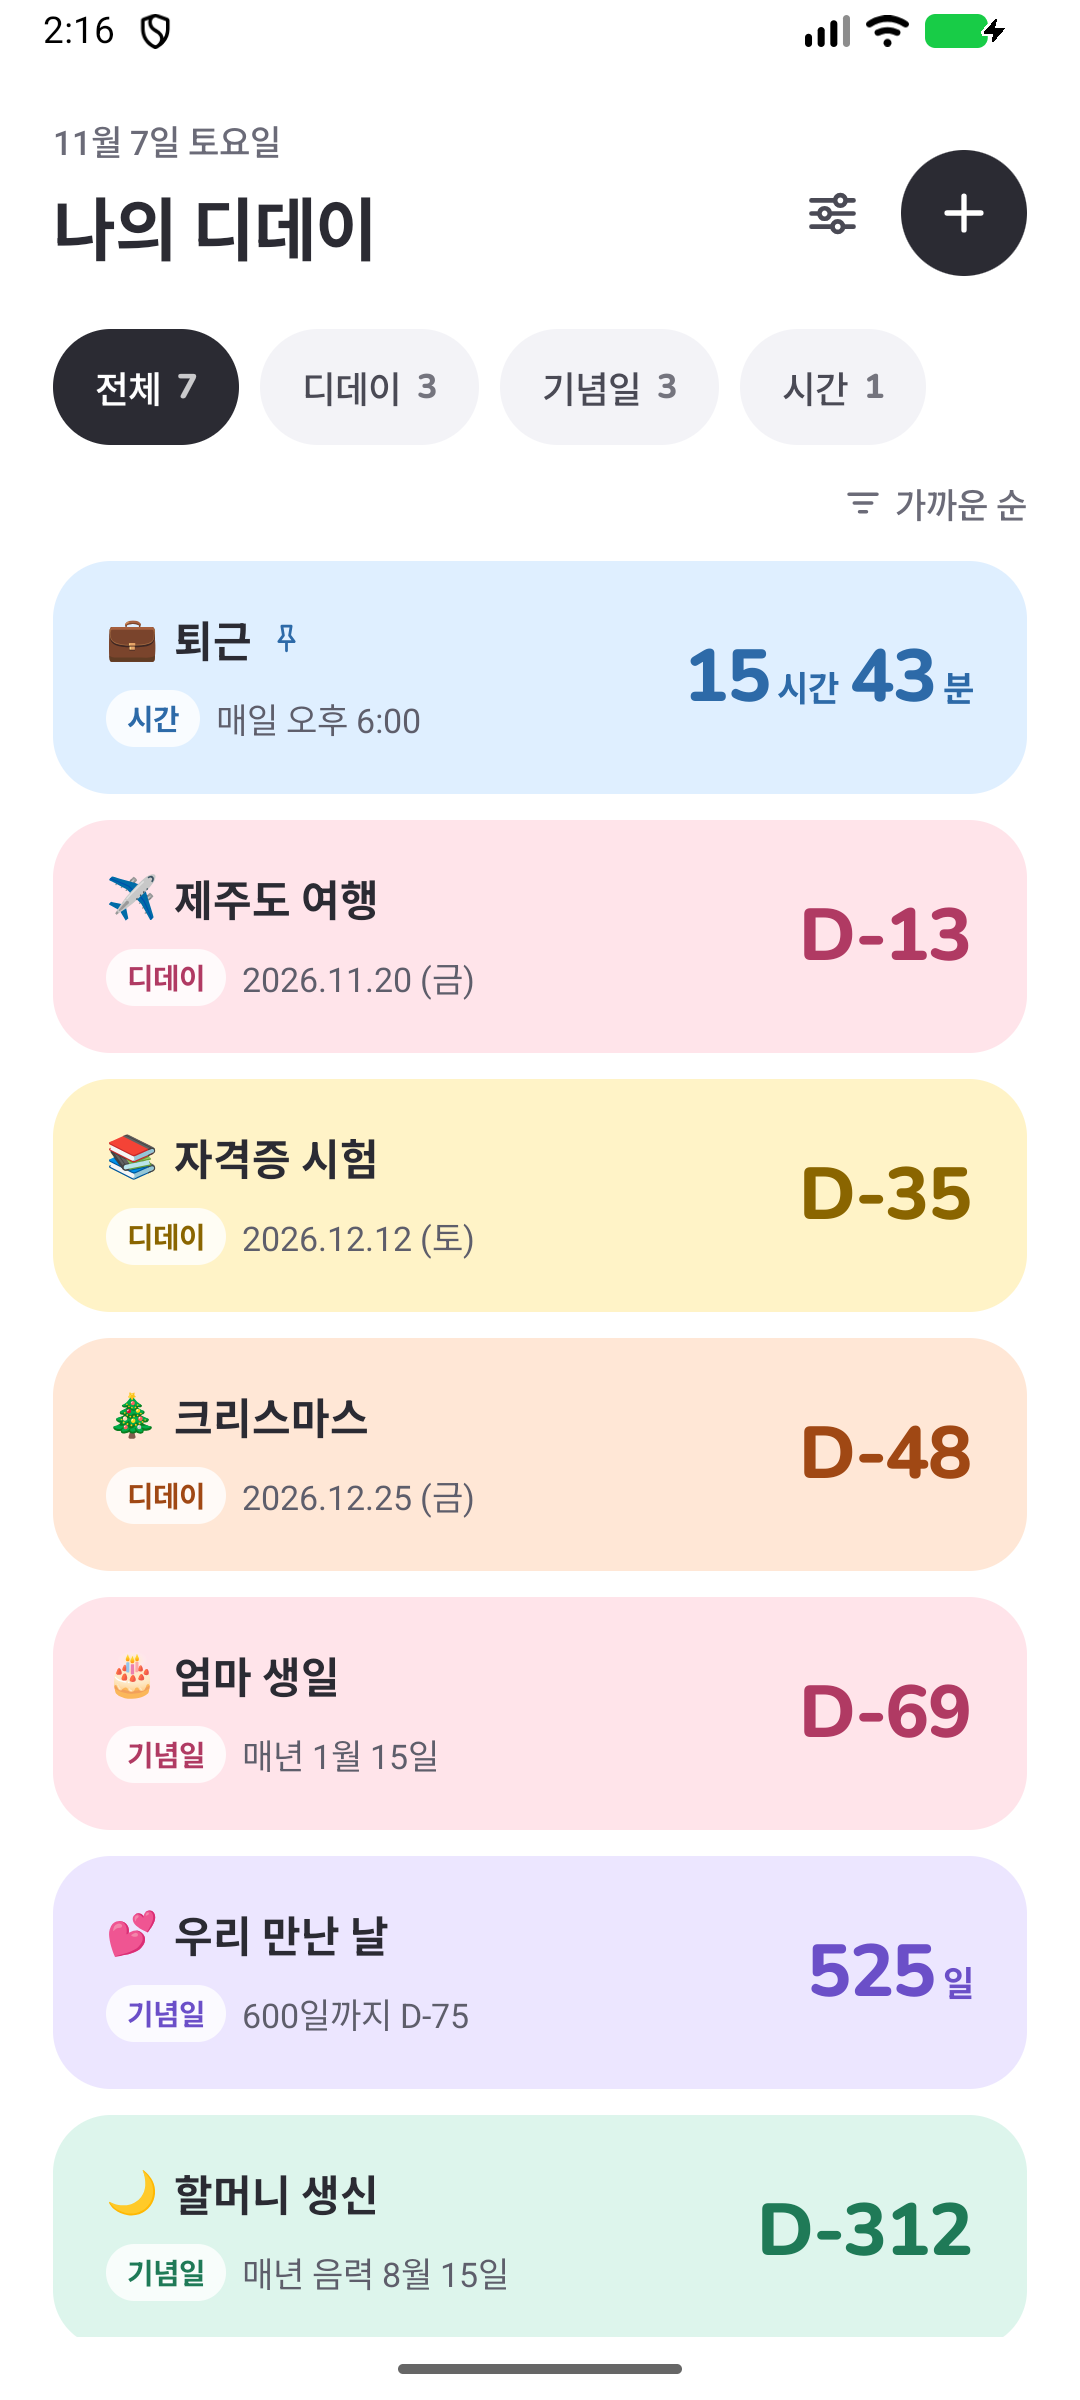
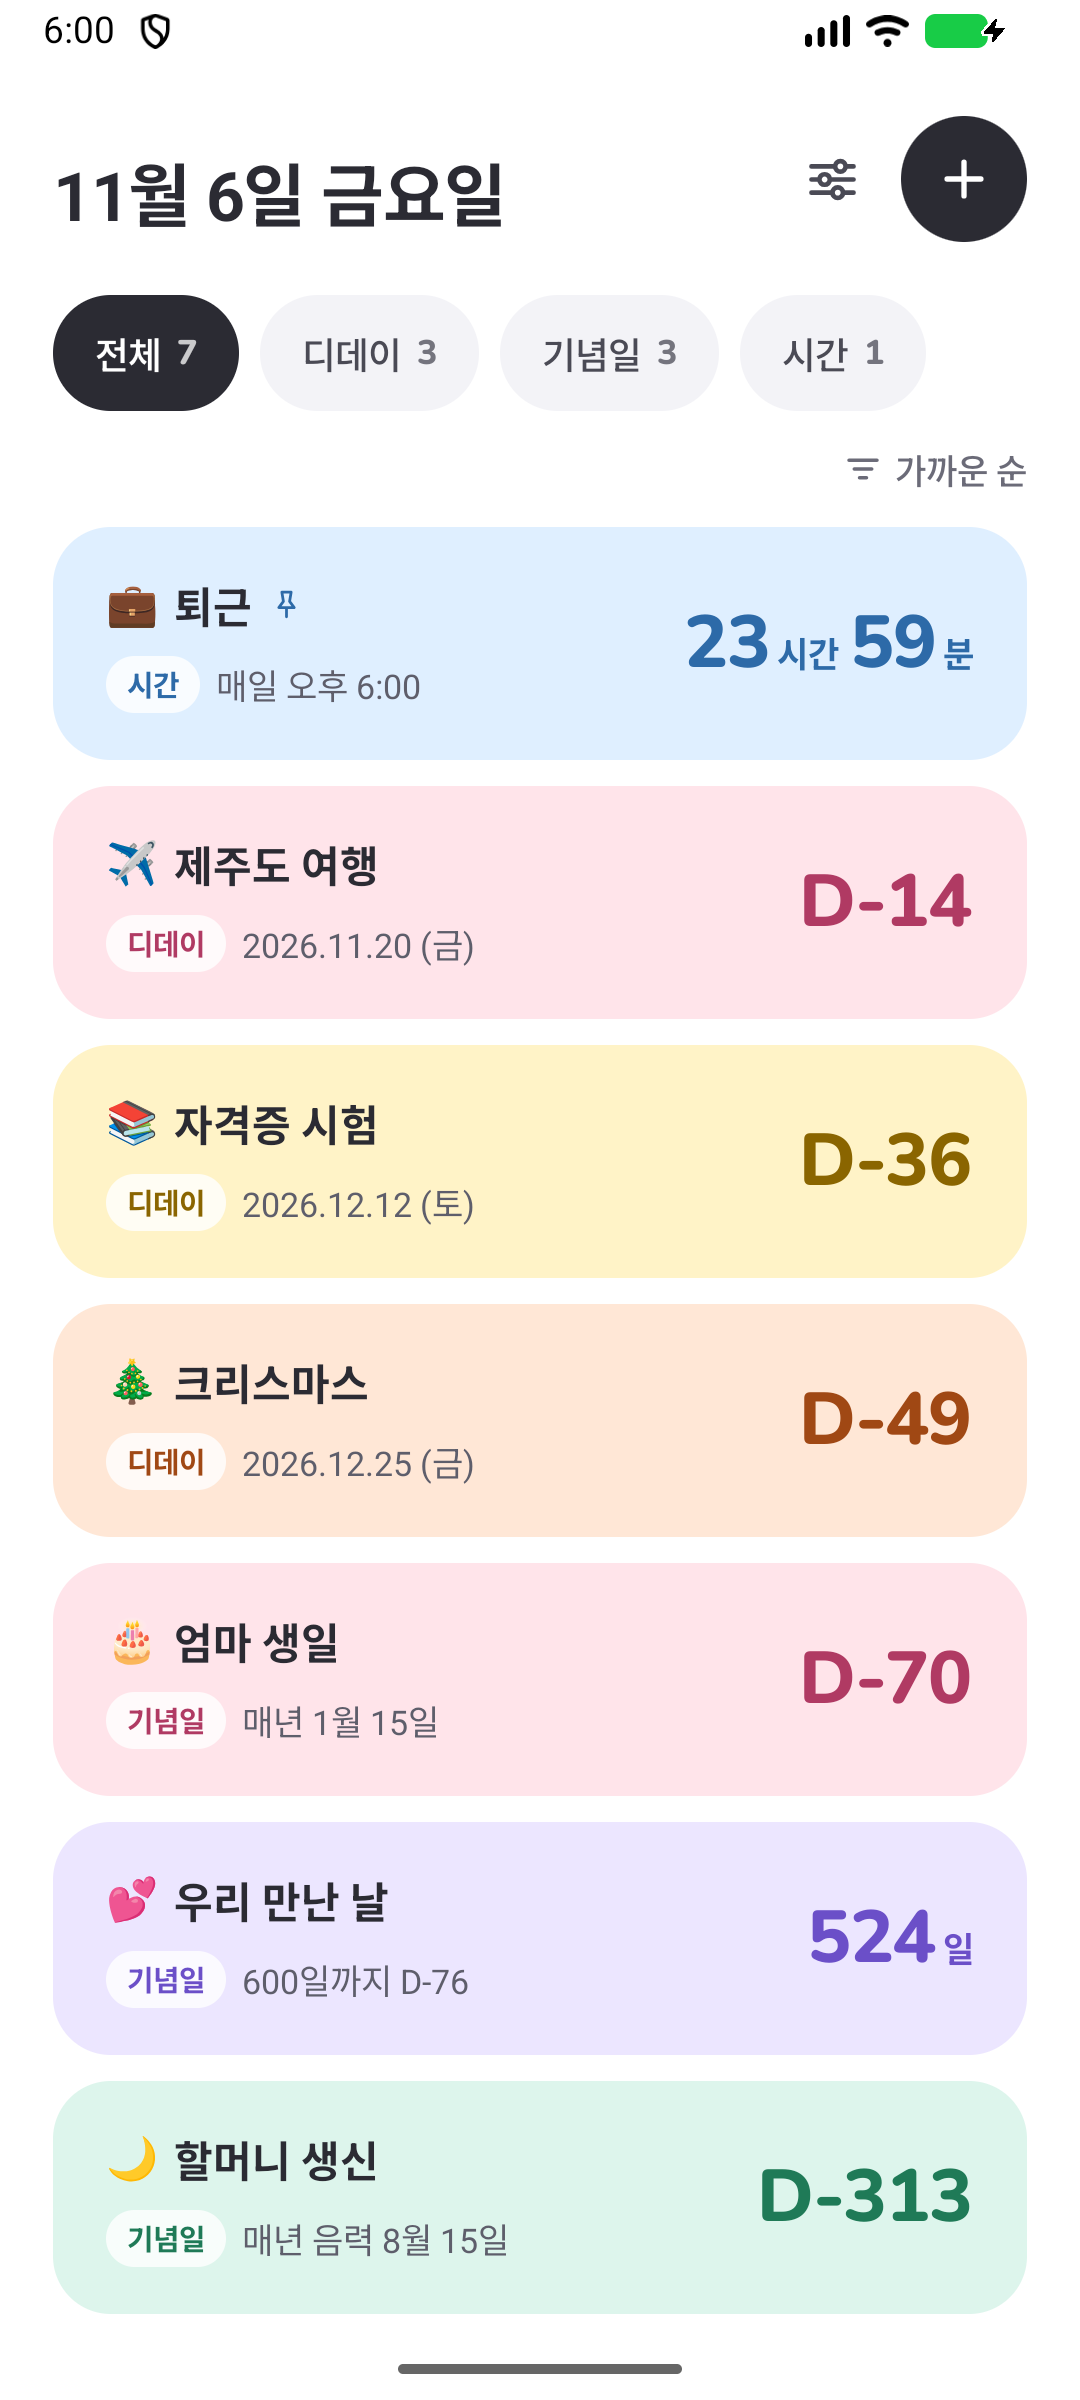
홈 화면의 고정 제목을 없애고 설정에서 정할 수 있게 함
- 홈 화면 맨 위의 "나의 디데이"를 없앴다. 기본은 오늘 날짜가 제목 자리에 온다
- 설정에 "홈 화면 제목" 입력칸 추가. 적으면 작은 날짜 아래에 그 제목이 보인다
- 입력칸(FieldBox, TextInput)을 공용 요소로 옮겨 편집·설정 화면이 함께 쓴다
- 화면 캡처(홈, 설정) 갱신

diff --git a/app/src/main/java/com/simple/dday/ui/EditScreen.kt b/app/src/main/java/com/simple/dday/ui/EditScreen.kt
@@ -21,8 +21,6 @@ import androidx.compose.foundation.rememberScrollState
 import androidx.compose.foundation.selection.selectable
 import androidx.compose.foundation.shape.CircleShape
 import androidx.compose.foundation.shape.RoundedCornerShape
-import androidx.compose.foundation.text.BasicTextField
-import androidx.compose.foundation.text.KeyboardOptions
 import androidx.compose.foundation.verticalScroll
 import androidx.compose.material3.AlertDialog
 import androidx.compose.material3.DatePicker
@@ -48,14 +46,11 @@ import androidx.compose.ui.Alignment
 import androidx.compose.ui.Modifier
 import androidx.compose.ui.draw.clip
 import androidx.compose.ui.graphics.Color
-import androidx.compose.ui.graphics.SolidColor
 import androidx.compose.ui.graphics.vector.ImageVector
 import androidx.compose.ui.semantics.Role
 import androidx.compose.ui.semantics.contentDescription
 import androidx.compose.ui.semantics.semantics
-import androidx.compose.ui.text.TextStyle
 import androidx.compose.ui.text.font.FontWeight
-import androidx.compose.ui.text.input.KeyboardType
 import androidx.compose.ui.unit.dp
 import androidx.compose.ui.unit.sp
 import com.simple.dday.data.AnnivMode
@@ -73,15 +68,12 @@ import com.simple.dday.logic.summarize
 import com.simple.dday.ui.theme.Accent
 import com.simple.dday.ui.theme.ChipBg
 import com.simple.dday.ui.theme.DialogBg
-import com.simple.dday.ui.theme.FieldBg
-import com.simple.dday.ui.theme.FieldBorder
 import com.simple.dday.ui.theme.Gray
 import com.simple.dday.ui.theme.Ink
 import com.simple.dday.ui.theme.Line
 import com.simple.dday.ui.theme.OnAccent
 import com.simple.dday.ui.theme.OnPastelInk
 import com.simple.dday.ui.theme.Paper
-import com.simple.dday.ui.theme.Placeholder
 import com.simple.dday.ui.theme.SubOnPastel
 import com.simple.dday.ui.theme.Track
 import com.simple.dday.ui.theme.bgColor
@@ -218,22 +210,13 @@ fun EditScreen(
 
             Group {
                 SectionLabel("이름")
-                FieldBox(Modifier.semantics { contentDescription = "이름" }) {
-                    BasicTextField(
-                        value = title,
-                        onValueChange = { title = it.take(40) },
-                        singleLine = true,
-                        textStyle = TextStyle(fontSize = 16.sp, color = Ink),
-                        cursorBrush = SolidColor(accent),
-                        modifier = Modifier.fillMaxWidth(),
-                        decorationBox = { inner ->
-                            Box(contentAlignment = Alignment.CenterStart) {
-                                if (title.isEmpty()) Text(placeholder, fontSize = 16.sp, color = Placeholder)
-                                inner()
-                            }
-                        },
-                    )
-                }
+                TextInput(
+                    value = title,
+                    onValueChange = { title = it.take(40) },
+                    placeholder = placeholder,
+                    description = "이름",
+                    cursor = accent,
+                )
             }
 
             Group {
@@ -290,23 +273,14 @@ fun EditScreen(
             if (isYearly) {
                 Group {
                     SectionLabel("태어난 해 (선택)")
-                    FieldBox(Modifier.semantics { contentDescription = "태어난 해" }) {
-                        BasicTextField(
-                            value = birthYear,
-                            onValueChange = { v -> birthYear = v.filter(Char::isDigit).take(4) },
-                            singleLine = true,
-                            textStyle = TextStyle(fontSize = 16.sp, color = Ink),
-                            cursorBrush = SolidColor(accent),
-                            keyboardOptions = KeyboardOptions(keyboardType = KeyboardType.Number),
-                            modifier = Modifier.fillMaxWidth(),
-                            decorationBox = { inner ->
-                                Box(contentAlignment = Alignment.CenterStart) {
-                                    if (birthYear.isEmpty()) Text("예: 1990", fontSize = 16.sp, color = Placeholder)
-                                    inner()
-                                }
-                            },
-                        )
-                    }
+                    TextInput(
+                        value = birthYear,
+                        onValueChange = { v -> birthYear = v.filter(Char::isDigit).take(4) },
+                        placeholder = "예: 1990",
+                        description = "태어난 해",
+                        cursor = accent,
+                        numeric = true,
+                    )
                     Text("생일이라면 입력해 보세요. 몇 번째 생일인지와 만 나이를 보여줘요", fontSize = 12.sp, color = Gray)
                 }
             }
@@ -390,24 +364,6 @@ private fun CategoryCard(kind: Kind, selected: Boolean, modifier: Modifier, onCl
     ) {
         Text(kind.label, fontSize = 15.sp, fontWeight = FontWeight.Bold)
         Text(kind.desc, fontSize = 12.sp, color = SubOnPastel)
-    }
-}
-
-@Composable
-private fun FieldBox(modifier: Modifier = Modifier, onClick: (() -> Unit)? = null, content: @Composable () -> Unit) {
-    val shape = RoundedCornerShape(14.dp)
-    Box(
-        modifier
-            .fillMaxWidth()
-            .height(52.dp)
-            .clip(shape)
-            .background(FieldBg)
-            .border(1.5.dp, FieldBorder, shape)
-            .then(if (onClick != null) Modifier.clickable(role = Role.Button, onClick = onClick) else Modifier)
-            .padding(horizontal = 16.dp),
-        contentAlignment = Alignment.CenterStart,
-    ) {
-        content()
     }
 }
 

diff --git a/app/src/main/java/com/simple/dday/ui/Components.kt b/app/src/main/java/com/simple/dday/ui/Components.kt
@@ -24,6 +24,8 @@ import androidx.compose.foundation.selection.selectable
 import androidx.compose.foundation.selection.toggleable
 import androidx.compose.foundation.shape.CircleShape
 import androidx.compose.foundation.shape.RoundedCornerShape
+import androidx.compose.foundation.text.BasicTextField
+import androidx.compose.foundation.text.KeyboardOptions
 import androidx.compose.material3.HorizontalDivider
 import androidx.compose.material3.Icon
 import androidx.compose.material3.Text
@@ -38,10 +40,15 @@ import androidx.compose.ui.Modifier
 import androidx.compose.ui.draw.clip
 import androidx.compose.ui.draw.shadow
 import androidx.compose.ui.graphics.Color
+import androidx.compose.ui.graphics.SolidColor
 import androidx.compose.ui.graphics.lerp
 import androidx.compose.ui.graphics.vector.ImageVector
 import androidx.compose.ui.semantics.Role
+import androidx.compose.ui.semantics.contentDescription
+import androidx.compose.ui.semantics.semantics
+import androidx.compose.ui.text.TextStyle
 import androidx.compose.ui.text.font.FontWeight
+import androidx.compose.ui.text.input.KeyboardType
 import androidx.compose.ui.text.style.TextAlign
 import androidx.compose.ui.text.style.TextOverflow
 import androidx.compose.ui.unit.TextUnit
@@ -54,12 +61,15 @@ import com.simple.dday.logic.Step
 import com.simple.dday.logic.TimelineItem
 import com.simple.dday.ui.theme.ChipBg
 import com.simple.dday.ui.theme.Divider
+import com.simple.dday.ui.theme.FieldBg
+import com.simple.dday.ui.theme.FieldBorder
 import com.simple.dday.ui.theme.Gray
 import com.simple.dday.ui.theme.Ink
 import com.simple.dday.ui.theme.LabelGray
 import com.simple.dday.ui.theme.Nunito
 import com.simple.dday.ui.theme.OnPastelInk
 import com.simple.dday.ui.theme.Paper
+import com.simple.dday.ui.theme.Placeholder
 import com.simple.dday.ui.theme.SegSelected
 import com.simple.dday.ui.theme.SubOnPastel
 import com.simple.dday.ui.theme.TileSoft
@@ -296,6 +306,54 @@ fun SoftButton(text: String, modifier: Modifier = Modifier, onClick: () -> Unit)
         contentAlignment = Alignment.Center,
     ) {
         Text(text, fontSize = 15.sp, fontWeight = FontWeight.Bold, color = LabelGray)
+    }
+}
+
+/** 입력칸과 고르는 칸이 함께 쓰는 테두리 상자 */
+@Composable
+fun FieldBox(modifier: Modifier = Modifier, onClick: (() -> Unit)? = null, content: @Composable () -> Unit) {
+    val shape = RoundedCornerShape(14.dp)
+    Box(
+        modifier
+            .fillMaxWidth()
+            .height(52.dp)
+            .clip(shape)
+            .background(FieldBg)
+            .border(1.5.dp, FieldBorder, shape)
+            .then(if (onClick != null) Modifier.clickable(role = Role.Button, onClick = onClick) else Modifier)
+            .padding(horizontal = 16.dp),
+        contentAlignment = Alignment.CenterStart,
+    ) {
+        content()
+    }
+}
+
+/** 한 줄 글자 입력칸. description은 화면 낭독기가 읽는 이름이다 */
+@Composable
+fun TextInput(
+    value: String,
+    onValueChange: (String) -> Unit,
+    placeholder: String,
+    description: String,
+    cursor: Color,
+    numeric: Boolean = false,
+) {
+    FieldBox(Modifier.semantics { contentDescription = description }) {
+        BasicTextField(
+            value = value,
+            onValueChange = onValueChange,
+            singleLine = true,
+            textStyle = TextStyle(fontSize = 16.sp, color = Ink),
+            cursorBrush = SolidColor(cursor),
+            keyboardOptions = if (numeric) KeyboardOptions(keyboardType = KeyboardType.Number) else KeyboardOptions.Default,
+            modifier = Modifier.fillMaxWidth(),
+            decorationBox = { inner ->
+                Box(contentAlignment = Alignment.CenterStart) {
+                    if (value.isEmpty()) Text(placeholder, fontSize = 16.sp, color = Placeholder)
+                    inner()
+                }
+            },
+        )
     }
 }
 

diff --git a/app/src/main/java/com/simple/dday/ui/HomeScreen.kt b/app/src/main/java/com/simple/dday/ui/HomeScreen.kt
@@ -59,6 +59,7 @@ import com.simple.dday.ui.theme.Paper
 @Composable
 fun HomeScreen(
     events: List<Event>,
+    title: String,
     sortOrder: SortOrder,
     onSort: (SortOrder) -> Unit,
     onAdd: () -> Unit,
@@ -89,8 +90,14 @@ fun HomeScreen(
             horizontalArrangement = Arrangement.spacedBy(4.dp),
         ) {
             Column(Modifier.weight(1f), verticalArrangement = Arrangement.spacedBy(4.dp)) {
-                Text("${formatMonthDay(today)} ${weekdayFull(today)}", fontSize = 13.sp, fontWeight = FontWeight.Medium, color = Gray)
-                Text("나의 디데이", fontSize = 26.sp, fontWeight = FontWeight.Bold, letterSpacing = (-0.5).sp)
+                val dateText = "${formatMonthDay(today)} ${weekdayFull(today)}"
+                if (title.isBlank()) {
+                    // 제목을 정하지 않았으면 오늘 날짜가 제목 자리에 온다
+                    Text(dateText, fontSize = 26.sp, fontWeight = FontWeight.Bold, letterSpacing = (-0.5).sp)
+                } else {
+                    Text(dateText, fontSize = 13.sp, fontWeight = FontWeight.Medium, color = Gray)
+                    Text(title, fontSize = 26.sp, fontWeight = FontWeight.Bold, letterSpacing = (-0.5).sp, maxLines = 1)
+                }
             }
             Box(Modifier.height(48.dp), contentAlignment = Alignment.Center) {
                 PlainIconButton(AppIcons.Settings, "설정", tint = LabelGray, onClick = onSettings)

diff --git a/app/src/main/java/com/simple/dday/ui/SettingsScreen.kt b/app/src/main/java/com/simple/dday/ui/SettingsScreen.kt
@@ -34,6 +34,7 @@ import androidx.compose.ui.unit.sp
 import com.simple.dday.R
 import com.simple.dday.data.Event
 import com.simple.dday.data.EventStore
+import com.simple.dday.data.Pastel
 import com.simple.dday.data.Settings
 import com.simple.dday.data.SortOrder
 import com.simple.dday.data.Support
@@ -42,6 +43,7 @@ import com.simple.dday.logic.summarize
 import com.simple.dday.ui.theme.Divider
 import com.simple.dday.ui.theme.Gray
 import com.simple.dday.ui.theme.Paper
+import com.simple.dday.ui.theme.inkColor
 
 @Composable
 fun SettingsScreen(
@@ -76,6 +78,17 @@ fun SettingsScreen(
                     labels = ThemeMode.entries.map { it.label },
                     selected = settings.themeMode.ordinal,
                 ) { settings.setTheme(ThemeMode.entries[it]) }
+            }
+
+            Block("홈 화면 제목") {
+                TextInput(
+                    value = settings.homeTitle,
+                    onValueChange = { settings.changeHomeTitle(it.take(20)) },
+                    placeholder = "예: 나의 디데이",
+                    description = "홈 화면 제목",
+                    cursor = Pastel.LAVENDER.inkColor,
+                )
+                Note("비워 두면 오늘 날짜가 제목 자리에 보여요")
             }
 
             Block("목록 정렬") {

diff --git a/app/src/main/java/com/simple/dday/data/Settings.kt b/app/src/main/java/com/simple/dday/data/Settings.kt
@@ -27,6 +27,15 @@ class Settings(context: Context) {
     var sortOrder: SortOrder by mutableStateOf(read(KEY_SORT, SortOrder.NEAREST))
         private set
 
+    /** 홈 화면 맨 위에 보여줄 제목. 비어 있으면 오늘 날짜가 그 자리에 온다 */
+    var homeTitle: String by mutableStateOf(prefs.getString(KEY_TITLE, "") ?: "")
+        private set
+
+    fun changeHomeTitle(text: String) {
+        homeTitle = text
+        prefs.edit().putString(KEY_TITLE, text).apply()
+    }
+
     fun setTheme(mode: ThemeMode) {
         themeMode = mode
         prefs.edit().putString(KEY_THEME, mode.name).apply()
@@ -43,5 +52,6 @@ class Settings(context: Context) {
     private companion object {
         const val KEY_THEME = "theme"
         const val KEY_SORT = "sort"
+        const val KEY_TITLE = "homeTitle"
     }
 }

diff --git a/app/src/main/java/com/simple/dday/MainActivity.kt b/app/src/main/java/com/simple/dday/MainActivity.kt
@@ -88,6 +88,7 @@ private fun App(store: EventStore, settings: Settings) {
         when {
             route == HOME -> HomeScreen(
                 events = store.events,
+                title = settings.homeTitle,
                 sortOrder = settings.sortOrder,
                 onSort = settings::setSort,
                 onAdd = { push(EDIT_NEW) },

diff --git a/README.md b/README.md
@@ -33,6 +33,7 @@ A simple, ad-free D-day, anniversary and countdown app for Android. Free and ope
 - **꾸미기**: 카드 색 6가지와 이름 앞에 붙는 아이콘(이모지)을 고릅니다.
 - **목록 정리**: 카테고리별로 걸러 보고, 맨 위에 고정하고, 가까운 순·만든 순·이름 순으로 정렬합니다. 지난 디데이는 보관함으로 보내 숨길 수 있습니다.
 - **화면 테마**: 시스템 설정·라이트·다크 중에서 고릅니다.
+- **홈 화면 제목**: 홈 화면 맨 위에는 오늘 날짜가 보입니다. 설정에서 제목을 적으면 그 제목이 함께 보입니다.
 
 알림, 홈 화면 위젯, 파일 백업은 없습니다. 폰의 Google 백업이 켜져 있으면 데이터가 함께 백업됩니다.
 
